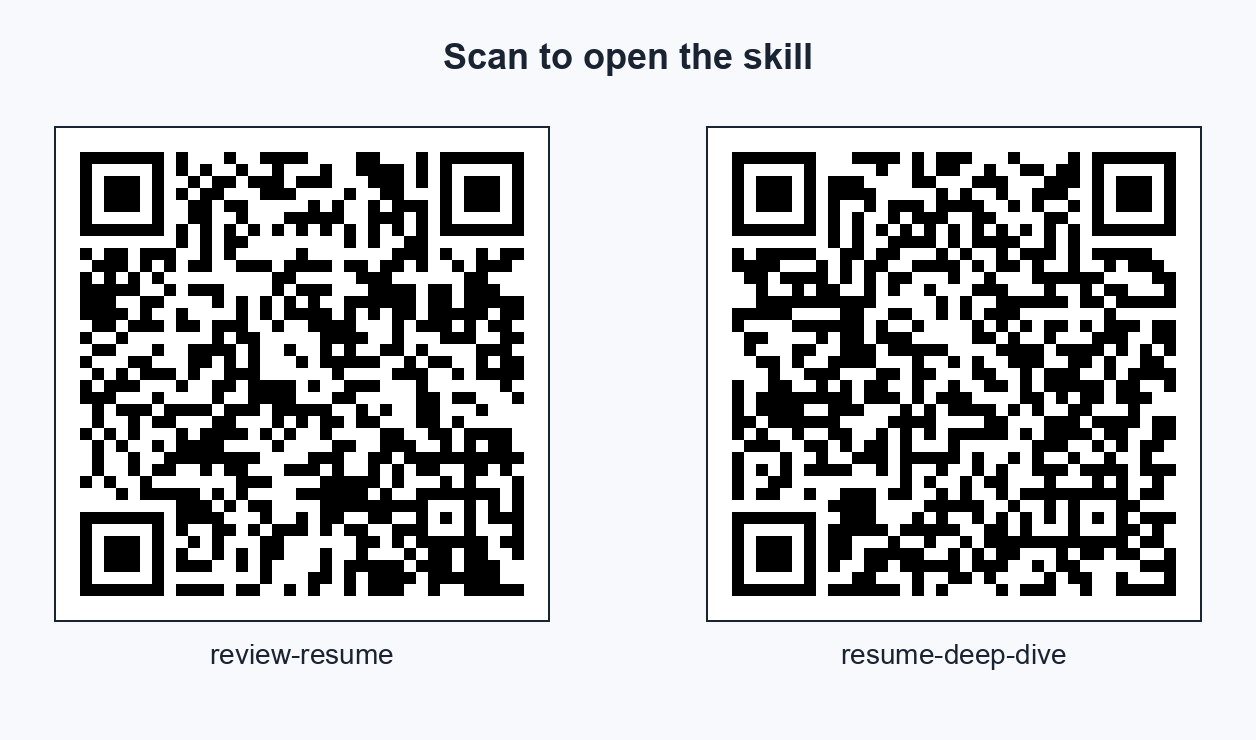
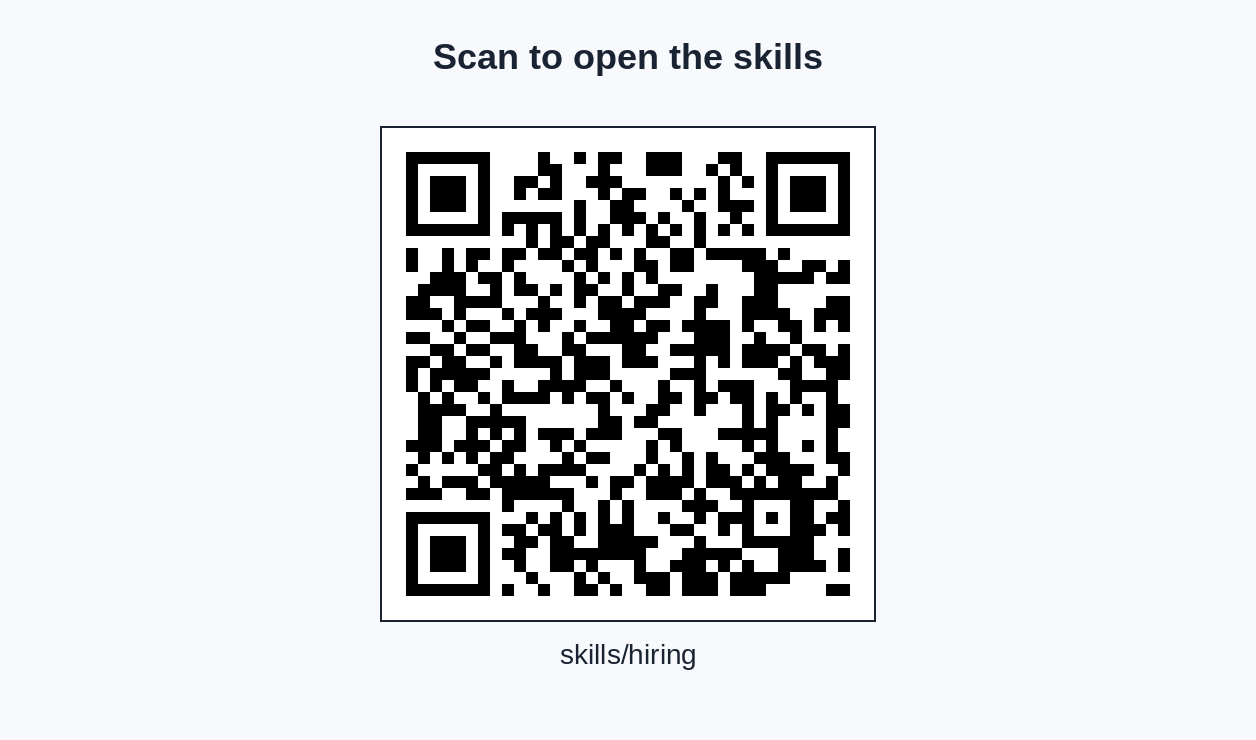
docs(slides): point hiring QR to life-kit hiring skills
The old QR codes linked to skills/review-resume and skills/resume-deep-dive, which moved under skills/hiring in life-kit. Replace them with one QR for https://github.com/shangyiy/life-kit/tree/main/skills/hiring and update the closing slide title and transcript.

diff --git a/interview/hiring-manager-lens.html b/interview/hiring-manager-lens.html
@@ -800,14 +800,15 @@
       },
       {
         section: "close",
-        title: "Scan the QR codes for two practice skills.",
+        title: "Scan the QR code for two practice skills.",
         layout: "img-wide",
         img: "images/s10-two-skills-qr.png",
 
         transcript: [
-          "Two skills you can use after this talk — scan either with your phone.",
-          "Left: /review-resume — does the paper fit the job?",
-          "Right: /resume-deep-dive — do you understand what you wrote?",
+          "Two skills you can use after this talk — scan the code with your phone.",
+          "It opens the hiring skills folder in life-kit, which holds both:",
+          "/review-resume — does the paper fit the job?",
+          "/resume-deep-dive — do you understand what you wrote?",
           "Use them to practice the hiring-manager lens we just walked through.",
         ],
       },
